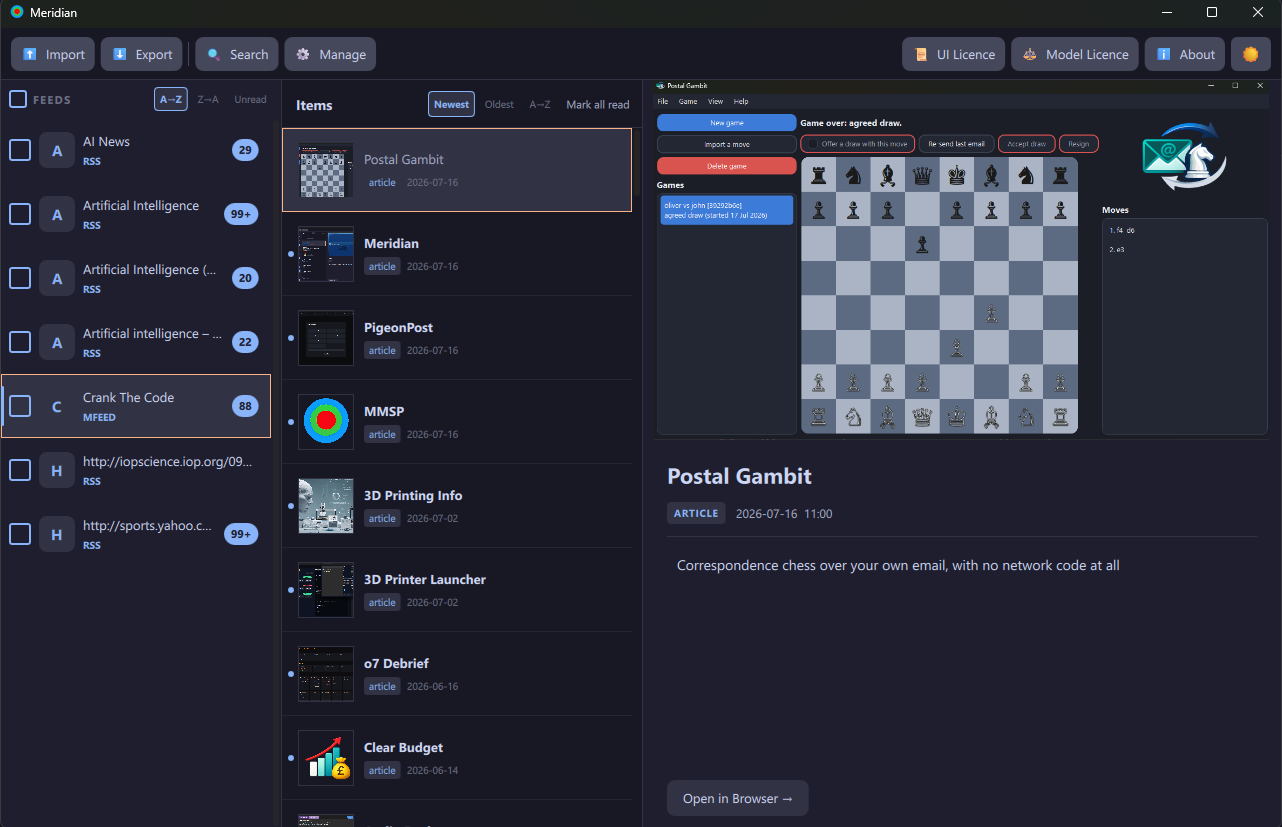
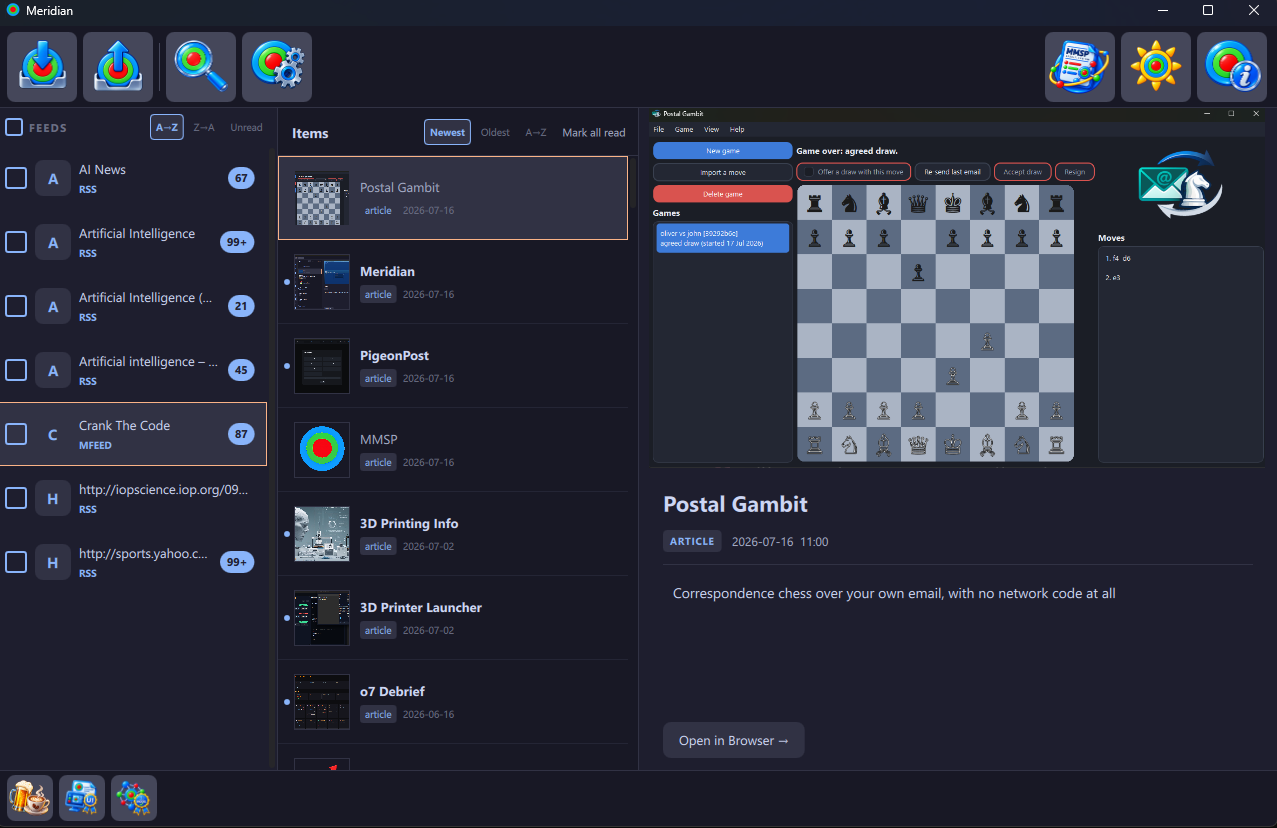
Recapture the site screenshot and describe the window it now shows
The hero shot still had the emoji header and no strip at the foot. Its alt text named three panes and nothing else, so a reader who cannot see the picture was told nothing about either band.

The why page described the reader as a set of controls reachable by keyboard without saying they are pictures, which is the first thing the new shot shows.

diff --git a/docs/why.html b/docs/why.html
@@ -73,7 +73,8 @@
     browser tab would.</p>
   <p>What works now is a calm three-pane reader for Windows, macOS and Linux: topic-based feed
     discovery, per-feed filter expressions, bulk management, a built-in media player, Catppuccin
-    themes and every control reachable by keyboard. The protocol remains the heart of the project:
+    themes and every control reachable by keyboard, each of them a picture with a tooltip that
+    opens on hover and on keyboard focus alike. The protocol remains the heart of the project:
     once publication becomes explicit, interoperability becomes possible.</p>
   <p>Full reasoning at <a href="https://www.crankthecode.com/posts/meridian">crankthecode.com</a>.</p>
   <div class="hero-cta" style="justify-content:flex-start;margin-top:2rem;margin-bottom:0;">

diff --git a/docs/index.html b/docs/index.html
@@ -102,7 +102,7 @@
   <div class="screenshot-wrap fade d4">
     <img
       src="meridian-screenshot.png"
-      alt="Meridian feed reader main window showing feed list, item list and article detail pane"
+      alt="Meridian feed reader main window: a band of picture controls along the top, the feed list, the item list and the article detail pane, then the donation button and the two licences along the foot"
     >
   </div>
 </section>
